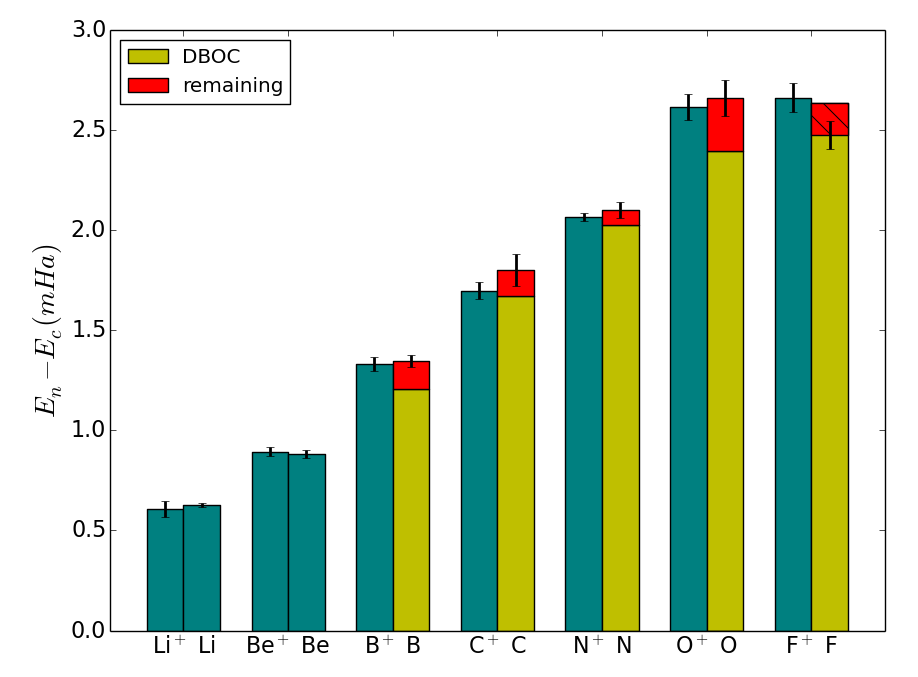
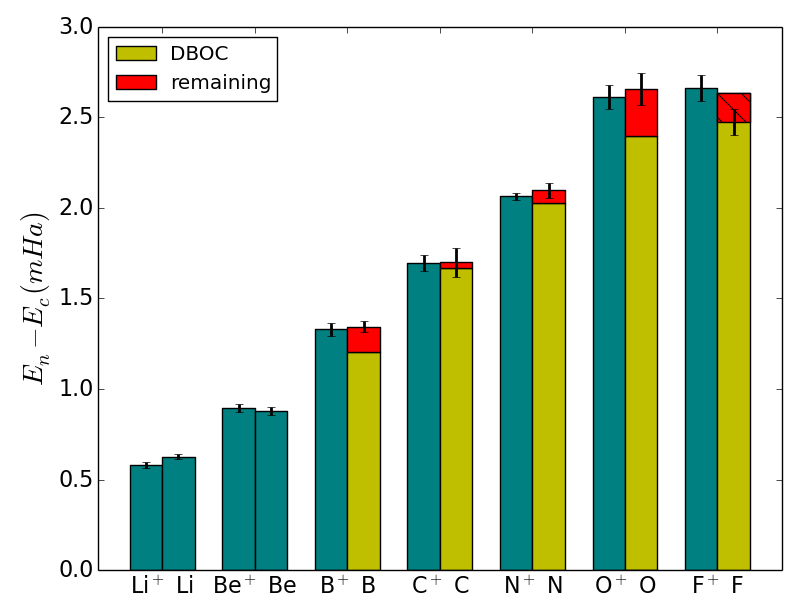
Done for the night

diff --git a/main.tex b/main.tex
@@ -29,7 +29,7 @@ In all but a handful of previous QMC simulations~\cite{Ceperley_1987,Natoli_1993
 
 \subsection{Electronic Wave Function and Optimization}
 
-There are several different approaches for generating high quality electronic wave functions for a FN-DMC calculation~\cite{Umrigar_Alleviation,Toulouse_Bench,Brown_Bench,Seth_Bench}. We use an initial guess for the wave function that is generated from complete active space self-consistent-field (CASSCF) \cite{Chaban_MCSCF,Szabo} calculations using the quantum chemistry package GAMESS \cite{GAMESS}. The optimized orbitals are then used in a configuration interaction singles and doubles (CISD) calculation to generate a series of configuration state functions (CSF)~\cite{Clark_Bench}. For LiH and BeH, a CASSCF calculation with a large active space is used in place of CISD and for Li$^+$ only a single determinant generated from Hartree-Fock is used. The specific choices of active space for the systems studied are listed in Table \ref{tab:CAS}. The multi-CSF expansion of the wave function can be expressed in the following form,
+There are several different approaches for generating high quality electronic wave functions for a FN-DMC calculation~\cite{Umrigar_Alleviation,Toulouse_Bench,Brown_Bench,Seth_Bench}. We use an initial guess for the wave function that is generated from complete active space self-consistent-field (CASSCF) \cite{Chaban_MCSCF,Szabo} calculations using the quantum chemistry package GAMESS \cite{GAMESS}. The optimized orbitals are then used in a configuration interaction singles and doubles (CISD) calculation to generate a series of configuration state functions (CSF)~\cite{Clark_Bench}. For the small systems Li$^+$, Be$^+$, LiH and BeH, a CASSCF calculation with a large active space is used in place of CISD. The specific choices of active space for the systems studied are listed in Table \ref{tab:CAS}. The multi-CSF expansion of the wave function can be expressed in the following form,
 \begin{align}
 \Psi_{\text{CISD}}(\vec{r};\vec{R}_o)=\sum\limits_{i=1}^{N_{\text{CSF}}}\alpha_i\phi_i(\vec{r};\vec{R}_o), \label{eq:psi_gms}
 \end{align}
@@ -44,8 +44,8 @@ We optimize the CSF and Jastrow coefficients $\vec{\alpha},\vec{\beta}$ simultan
 \begin{table}[h]
 \caption{Quantum chemistry parameters: CAS(m,n) indicates we distribute m electrons in to n active orbitals in the CASSCF calculation. All remaining molecular orbitals are used in the CISD procedure. For the larger systems, one core orbital is frozen in the CISD calculation.\label{tab:CAS}}
 \begin{tabular}{lc|cc} \hline\hline
-$\text{Li}^+$ & Hartree-Fock & Li & CAS3.23-CISDT(FCI) \\ 
-$\text{Be}^+$ & CAS3.18-CISD & Be & CAS4.20-CISD \\ 
+$\text{Li}^+$ & CAS2.5 & Li & CAS3.23-CISDT(FCI) \\ 
+$\text{Be}^+$ & CAS3.18 & Be & CAS4.20-CISD \\ 
 $\text{B}^+$ & CAS4.40-CISD & B & CAS5.40-CISD \\
 $\text{C}^+$ & CAS5.16-CISD & C & CAS6.16-CISD \\
 $\text{N}^+$ & CAS6.20-CISD & N & CAS7.20-CISD \\
@@ -135,16 +135,7 @@ where $\mu=\frac{M}{M+1}$ is the reduced mass of the hydrogen-like atom and $M$,
 \subsection{Hydrides}
 
 \input{Table/diatomics}
-
-In Table \ref{tab:atomization}, we present our results on a series of molecular systems (hydrides). Finding accurate reference data for these systems to 0.1 mHa is not straightfoward, and to begin we use highly converged ECG data when available. Only one ECG calculation is performed in the clamped-nuclei limit for LiH. For the rest of the systems, we combined the best clamped-ion atomic references in Table \ref{tab:ionization} and thermochemistry estimates of $D_e$ in Table \ref{tab:atomization} to produce the reference ground-state energies. For BeH and BH, our energies are also lower than the best available quantum chemistry results of -15.247846 Ha~\cite{Koput_BeH} and -25.287650 Ha~\cite{Miliordos_BH}. For the rest of the systems it is possible we have the lowest variational estimates for a majority of the systems, and for all the non-adiabatic we have the best result for BH, and the only results for CH, OH, and HF. A comparison of our results with the references suggests that only the results for LiH and BeH are accurate to 0.1 mHa%, however, the energy differences we calculate should still be highly suggestive given the cancellation of error. %Our results consistently agree within 1 mHa of reference except for OH and HF where the errors are 2.5(2) mHa and 4.8(3) mHa respectively. Within quantum Monte Carlo, it is generally more difficult to obtain an accurate nodal surface for a molecule than for an atom. Considering the atomic ground-state of O and F are only 2 mHa away from the reference whereas C is 5 mHa from the reference, it is actually more surprising that CH agrees within 1 mHa of reference.
-
-Non-adiabatic ECG calculations only exist for the three smallest hydrides. Our results for LiH and BeH agree with the ECG references to within 0.4 mHa as shown in Figure \ref{fig:dia-ECG}. The ECG reference for LiH is converged to the true ground-state energy beyond 0.1 mHa and that our wave function has error of abour 0.2 mHa. For BeH, our result is within 0.1 mHa of the ECG reference and agree within error bars. With BH being one of the largest ECG simulations performed, the DMC result is actually lower in energy, in this case by 1 mHa. The experimental error bars on BH are large, and it is not evident how close our results are to the ground state, although extrapolating the ECG results with basis set size suggest we are within 1 mHa of the true ground state.~\cite{Bubin_BeH_noBO}
-
-To estimate the non-adiabatic contribution to the ground-state energy, we need to calculate the difference between a non-adiabatic and an adiabatic reference. To produce adiabatic references we add the zero-point energies estimated by Feller et. al.~\cite{Feller_Corrections} to our clamped-nuclei energies. The results are shown in Figure \ref{fig:dia-nad-ad}. There are a few sources of error for these estimates. Firstly, there is likely more fixed-node error present in the electronic wave function for the hydrides than for the atoms. The drag-node approximation is also likely to introduce more error for the hydrides as the nodes change based on the inter-nuclear distance. Further to estimate the non-adiabatic contribution we currently use the zero-point energy from Feller et. al.~\cite{Feller_Corrections} as a correction and it is unclear how much error is present in these estimates. Our results in Figure \ref{fig:dia-nad-ad} seem to indicate that BH and CH have non-adiabatic energy contributions beyond the DBOC correction.  In particular for CH less than half of the non-adiabatic contribution is accounted for by the DBOC correction.  It is likely that the fixed-node error is responsible for some of this non-adiabatic energy, although just how much is difficult to determine.   The experimental results do not help significantly in estimating our errors.  For BH, the experimental error bars are too large, while for CH, the experiment errors suggest that a good part of our non-adiabatic energy is due to fixed-node error.
-
-% It is possible that most of the non-adiabatic energy is actually due to the fixed-node approximation, but given our results for the C atom, and clamped nuclei CH, it seems unlikely that our errors are greater than 2 mHa.  %Wether this non-adiabaticity will manifest itself in other observable besides the total energy is beyond the scope of this study.
-
-%The amount of non-adiabatic contribution for the hydrides investigated all fall in the range of a few mHa and seem to peak for CH and HF. However, it is likely that the actual amount of non-adiabatic energies are smaller than what is being shown in Figure \ref{fig:dia-nad-ad}, as the predicted atomization energies for CH and HF agree less well with experiments than their adiabatic counterparts. 
+In Table \ref{tab:atomization}, we present our results on a series of molecular systems (hydrides). Finding accurate reference data for these systems to 0.1 mHa is not straightfoward, and to begin we use highly converged ECG data when available. Only one ECG calculation is performed in the clamped-nuclei limit for LiH with which we agree within 0.3 mHa. For the rest of the systems, we combined the best clamped-ion atomic references in Table \ref{tab:ionization} and thermochemistry estimates of atomization energy $D_e$ in Table \ref{tab:atomization} to produce the reference ground-state energies. For BeH and BH, we are within 1 mHa of reference and our energies are lower than the best available quantum chemistry results of -15.247846 Ha~\cite{Koput_BeH} and -25.287650 Ha~\cite{Miliordos_BH}. For the rest of the systems it is possible we have the lowest variational estimates, but a comparison with reference suggests that we have fixed-node error in the range of a few mHa.
 
 \begin{figure}[h]
 \centering
@@ -152,31 +143,41 @@ To estimate the non-adiabatic contribution to the ground-state energy, we need t
 \caption{Non-adiabatic FN-DMC ground-state energies of LiH, BeH and BH relative to ECG references. The error bars for the non-adiabatic ECG references are shown as thick dark lines and the error bars for the FN-DMC calculations are comparible to the size of the markers. \label{fig:dia-ECG}}
 \end{figure}
 
+Non-adiabatic ECG calculations only exist for the three smallest hydrides. Our results for LiH and BeH agree with the ECG references to within 0.3 mHa as shown in Figure \ref{fig:dia-ECG}. The ECG reference for LiH is converged to the true ground-state energy beyond 0.1 mHa, thus it is likely that our wave function has fixed-node error of about 0.3 mHa. For BeH, our result is within 0.1 mHa of the ECG reference and agree within error bars. With BH being one of the largest ECG simulations performed, the DMC result is actually lower in energy, in this case by 1 mHa. The experimental error bars on BH are large, and it is not evident how close our results are to the true ground-state, although extrapolating the ECG results with basis set size suggest we are within 1 mHa.~\cite{Bubin_BeH_noBO} For these non-adiabatic systems, we have the lowest variational result for BH, and the only results for CH, OH, and HF.
+
+The atomization energy of the diatomic systems are reported in Table \ref{tab:atomization}. High quality thermochemistry benchmarks are used for comparison~\cite{Feller_Corrections}. We take the reference energies from the last column of Table VI of Ref.~\cite{Feller_Corrections} and subtract the corrections in the $\Delta E_{SR}$ (scalar relativistic) and SO (spin-orbit coupling) columns for comparison with our non-adiabatic energies. For the comparison with our clamped-nuclei results, we further subtract the DBOC (diagonal Born-Oppenheimer correction) and ZPE (zero-point energy) corrections. Corrections from spin-orbit coupling and relativistic effects are not used, as they are not included in our Hamiltonian. The atomization energy estimated in the clamped-nuclei limit agrees within 1 mHa of reference for all but the largest molecule HF. This high level of agreement is due in part to the cancellation of fixed-node error in the atom and its corresponding hydride. Within quantum Monte Carlo, it is generally more difficult to obtain an accurate nodal surface for a molecule than for an atom. As a result, our estimates for the clamped-nuclei atomization energies are lower than the references in all cases. A similar trend can be observed as we compare our non-adiabatic results with reference. For each molecule, the deviation from reference is similar in the clamped-nuclei and non-adiabatic cases except for CH.
+
+\begin{figure}[h]
+\centering
+\includegraphics[scale=.4]{Figures/atomization}
+\caption{Atomization energies of first row hydrides obtained with FN-DMC relative to experimental data. The adiabatic results are estimated by adding zero-point energies from \cite{Feller_Corrections} to the clamped-nuclei results. \label{fig:atomization}}
+\end{figure}
+
+In Figure \ref{fig:atomization}, we compare both our clamped-nuclei and non-adiabatic results to experimental data. We also provide adiabatic estimates by adding the zero-point energies estimated with coupled-cluster techniques in Ref.~\cite{Feller_Corrections} to our clamped-nuclei results as exact corrections. To estimate experimental atomization energies starting from the clamped-nuclei results, one needs to include energetic corrections due to zero-point motion of the nuclei, non-adiabatic effects, spin-orbit coupling and relativistic effects. For these highly adiabatic systems, the inclusion of zero-point motion is sufficient to bring our clamped-nuclei results to within 2 mHa of the reference. Except for the case of CH, the non-adiabatic results agree closely with their adiabatic counterparts and are closer to experiment, although for BH the experimental error bar is too large to conclusively verify our claim. For CH, the experimental result suggests that our electron-ion wave function for this molecule has an unusually large fixed-node error.
+
+To estimate the non-adiabatic contribution to the ground-state energies for these hydrides, we calculate the difference between our non-adiabatic and adiabatic results as shown in Figure \ref{fig:dia-nad-ad}. Similar to the atomic case, we break down the non-adiabatic energy of our system into a DBOC contribution and everything beyond the DBOC whenever data is available. The total amount of non-adiabatic contribution seems to grow with the total amount of nuclear charge and peaks for CH. For BeH, OH and HF, the non-adiabatic contribution is almost entirely accounted for by DBOC with the remaining correction being zero within error bars. For BH and CH, the amount of non-adiabatic contribution seems to be significant. However, the accurate estimation of these contributions rely on the cancellation of the fixed-node error present in the electronic and electron-ion wave functions. For instance, if the electron-ion wave function is significantly lower in quality than the electronic wave function for a given system, then the estimated amount of non-adiabatic contribution will be larger than it should be. We also use the zero-point energies from Feller et. al.~\cite{Feller_Corrections} as corrections and it is unclear how much error is present in these estimates.
+
+%There are a few sources of error for these estimates. Firstly, there is likely more fixed-node error present in the electronic wave function for the hydrides than for the atoms. The drag-node approximation is also likely to introduce more error for the hydrides as the nodes change based on the inter-nuclear distance. Further to estimate the non-adiabatic contribution we currently use the zero-point energy from Feller et. al.~\cite{Feller_Corrections} as a correction and it is unclear how much error is present in these estimates. Our results in Figure \ref{fig:dia-nad-ad} seem to indicate that BH and CH have non-adiabatic energy contributions beyond the DBOC correction.  In particular for CH less than half of the non-adiabatic contribution is accounted for by the DBOC correction. It is likely that the fixed-node error is responsible for some of this non-adiabatic energy, although just how much is difficult to determine. The experimental results do not help significantly in estimating our errors.  
+
+% It is possible that most of the non-adiabatic energy is actually due to the fixed-node approximation, but given our results for the C atom, and clamped nuclei CH, it seems unlikely that our errors are greater than 2 mHa.  %Wether this non-adiabaticity will manifest itself in other observable besides the total energy is beyond the scope of this study.
+
+%The amount of non-adiabatic contribution for the hydrides investigated all fall in the range of a few mHa and seem to peak for CH and HF. However, it is likely that the actual amount of non-adiabatic energies are smaller than what is being shown in Figure \ref{fig:dia-nad-ad}, as the predicted atomization energies for CH and HF agree less well with experiments than their adiabatic counterparts. 
+
+
+
+(\textbf{this paragraph doesn't fit the story}) For the LiH molecule we are also interested in calculating the electron affinity for comparison to ECG results. We calculated the ground state energy of LiH$^-$ to be $-8.08220(2)$~Ha for the case of clamped nuclei. With non-adiabatic effects included our result is  $-8.07811(3)$~Ha. Our non-adiabatic result is in good agreement with a previous ECG study \cite{Bubin_LiH_noBO}, which reported a value of $-8.07856887$~Ha. We report an electron affinity of $0.01191(4)$~Ha, which can be compared to the ECG prediction of $0.012132(2)$~Ha and agrees with experiment, $0.0126(4)$~Ha. \footnote{We note that LiH ground state energies which we compare against are mislabeled in Ref.\cite{Bubin_LiH_noBO}, with $\text{LiH}^-$ and LiD being switched.}
+
+%Our biggest errors appear to occur for BeH and CH. For the case of BeH we agree with accuracy higher than 1 mHa with both the ECG results~\cite{Bubin_BeH_noBO} and semi-empirical benchmark~\cite{Feller_Corrections,Davidson_Atoms}. In particular, the ECG results are converged to more digits than the experimental error bar, and it is likely the experimental reference has errors on the order of 5 mHa. For the case of CH, our error is on the order of 3 mHa, which can be due to the dragged-node approximation. 
+
 \begin{figure}[h]
 \includegraphics[scale=.37]{Figures/dia-nad-ad}
 \caption{Non-adiabatic contribution to the ground-state energies in hydrides calculated with FN-DMC. The adiabatic reference energies are calculated by adding zero-point contributions from \cite{Feller_Corrections} to our clamped-nuclei results. A hatched bar indicates the contribution is negative. \label{fig:dia-nad-ad}}
 \end{figure}
 
-(\textbf{this paragraph doesn't fit the story}) For the LiH molecule we are also interested in calculating the electron affinity for comparison to ECG results. We calculated the ground state energy of LiH$^-$ to be $-8.08220(2)$~Ha for the case of clamped nuclei. With non-adiabatic effects included our result is  $-8.07811(3)$~Ha. Our non-adiabatic result is in good agreement with a previous ECG study \cite{Bubin_LiH_noBO}, which reported a value of $-8.07856887$~Ha. We report an electron affinity of $0.01191(4)$~Ha, which can be compared to the ECG prediction of $0.012132(2)$~Ha and agrees with experiment, $0.0126(4)$~Ha. \footnote{We note that LiH ground state energies which we compare against are mislabeled in Ref.\cite{Bubin_LiH_noBO}, with $\text{LiH}^-$ and LiD being switched.}
-
-\begin{figure}[h]
-\centering
-\includegraphics[scale=.4]{Figures/atomization}
-\caption{Atomization energies of first row hydrides obtained with FN-DMC relative to experimental data. The adiabatic results are estimated by adding zero-point energies from \cite{Feller_Corrections} to the clamped nuclei energies. \label{fig:atomization}}
-\end{figure}
-
-The atomization energy of the diatomic systems are reported in Table \ref{tab:atomization} and shown in Figure \ref{fig:atomization}. High quality thermochemistry benchmarks are used for comparison~\cite{Feller_Corrections}. We take the reference energies from the last column of Table VI of Ref.~\cite{Feller_Corrections} and subtract the corrections in the $\Delta E_{SR}$ (scalar relativistic) and SO (spin-orbit coupling) columns for comparison with our non-adiabatic energies. For the comparison with our adiabatic energies, we further subtract the DBOC (diagonal Born-Oppenheimer correction) and ZPE (zero-point energy) corrections. Corrections from spin-orbit coupling and relativistic effects are not used, as they are not included in our Hamiltonian. 
-
-The most prominent feature of Figure \ref{fig:atomization} is that the clamped-nuclei atomization energies are always within 3 mHa of the experimental reference except for BeH.  In considering our results in conjunction with the ECG results and the thermochemistry benchmarking, it seems likely that the experimental reference atomization energy for BeH has error on the order of 5 mHa. 
-% or is post-processed for comparison with results obtained in the clamped-nuclei limit. 
-Our non-adiabatic results consistently agree with their adiabatic counterparts except for CH where the two differ by 3 mHa. The adiabatic result agrees more closely with experiment and it is possible the discrepancy is caused by draged-node error. However, given the consistent high quality of our wave functions, it is unlikely that we will have errors that exceed 1 mHa. If that is the case, it would make CH a very interesting molecule, either non-adiabaticity modifies the zero-point energy significantly or the correction beyond DBOC is on the mHa level.
-
-%Our biggest errors appear to occur for BeH and CH. For the case of BeH we agree with accuracy higher than 1 mHa with both the ECG results~\cite{Bubin_BeH_noBO} and semi-empirical benchmark~\cite{Feller_Corrections,Davidson_Atoms}. In particular, the ECG results are converged to more digits than the experimental error bar, and it is likely the experimental reference has errors on the order of 5 mHa. For the case of CH, our error is on the order of 3 mHa, which can be due to the dragged-node approximation. 
-
 \section{Conclusion}
 We calculated the ground-state energies of first row atoms and their corresponding ions and hydrides to an accuracy of $0.1$ mHa for all but the largest systems with and without the Born-Oppenheimer approximation. We found the ionization energies of the atoms to be relatively independent of the adiabatic approximation, whereas the atomization energies are affected at the sub-mHa level. We provided benchmark data for the amount of non-adiabatic energy contribution for all systems studied. % and note that DBOC likely dominates the non-adiabatic energy in atoms and ions.
 
-These calculations also verified the validity of our wave function ansatz, namely it does indeed produce a high quality electron-ion trial wave function from a good electron wave function. This technique also has the potential to solve interesting larger-scale problems due to its ease of implementation as well as the polynomial scaling in computational time with respect to the number of electrons.  This technique can be generalized quite easily to deal with larger systems.
+These calculations also verified the validity of our wave function ansatz, namely it does indeed produce a high quality electron-ion trial wave function from a good electronic wave function. This technique also has the potential to solve interesting larger-scale problems due to its ease of implementation as well as the polynomial scaling in computational time with respect to the number of electrons.  %This technique can be generalized quite easily to deal with larger systems.
 
 \section{Acknowledgment}
 \input{Section/acknowledgment}

diff --git a/Table/atoms.tex b/Table/atoms.tex
@@ -46,7 +46,7 @@ $E_{\text{ref}}$\tnote{a} &  \text{-}7.478060 & \text{-}14.667356 & \text{-}24.6
 \multicolumn{1}{c}{} &
 \multicolumn{1}{c}{} &
 \multicolumn{1}{c}{} \\
-\textbf{FN-DMC} & \text{-}7.47743(1) & \text{-}14.66643(2) & \text{-}24.65239(3) & \text{-}37.84268(8) & \text{-}54.58641(4) & \text{-}75.06313(9) & \text{-}99.72929(7) \\
+\textbf{FN-DMC} & \text{-}7.47743(1) & \text{-}14.66643(2) & \text{-}24.65239(3) & \text{-}37.84278(8) & \text{-}54.58641(4) & \text{-}75.06313(9) & \text{-}99.72929(7) \\
 ECG \tnote{b} & \text{-}7.477452 & \text{-}14.666435 & \text{-}24.652624 & \text{-}37.841621 & N/A & N/A & N/A \\
 \hline
 
@@ -67,7 +67,7 @@ ECG \tnote{b} & \text{-}7.477452 & \text{-}14.666435 & \text{-}24.652624 & \text
 \multicolumn{1}{c}{} &
 \multicolumn{1}{c}{} &
 \multicolumn{1}{c}{} \\
-FN-DMC & \text{-}7.279919(4) & \text{-}14.324754(9) & \text{-}24.34881(2) & \text{-}37.43071(2) & \text{-}54.05371(2) & \text{-}74.56597(4) & \text{-}99.09109(6) \\
+FN-DMC & \text{-}7.27989(1) & \text{-}14.324754(9) & \text{-}24.34881(2) & \text{-}37.43071(2) & \text{-}54.05371(2) & \text{-}74.56597(4) & \text{-}99.09109(6) \\
 Seth DMC \cite{Seth_Bench} & \text{-}7.279914(3) & \text{-}14.324761(3) & \text{-}24.34887(2) & \text{-}37.43073(4) & \text{-}54.05383(7) & \text{-}74.56662(7) & \text{-}99.0911(2) \\
 $E_{\text{ref}}$\tnote{c} & \text{-}7.279913 & \text{-}14.324763 & \text{-}24.348884 & \text{-}37.430880 & \text{-}54.0546 & \text{-}74.5668 & \text{-}99.0928 \\ 
 \multicolumn{1}{c}{} &
@@ -78,7 +78,7 @@ $E_{\text{ref}}$\tnote{c} & \text{-}7.279913 & \text{-}14.324763 & \text{-}24.34
 \multicolumn{1}{c}{} &
 \multicolumn{1}{c}{} &
 \multicolumn{1}{c}{} \\
-\textbf{FN-DMC} & \text{-}7.27931(4) & \text{-}14.32386(2) & \text{-}24.34748(3) & \text{-}37.42901(4) & \text{-}54.05165(1) & \text{-}74.56336(5) & \text{-}99.08843(5) \\
+\textbf{FN-DMC} & \text{-}7.27931(1) & \text{-}14.32386(2) & \text{-}24.34748(3) & \text{-}37.42899(3) & \text{-}54.05165(1) & \text{-}74.56336(5) & \text{-}99.08843(5) \\
 ECG \tnote{d} & N/A &  \text{-}14.323863 &  \text{-}24.347641 &  \text{-}37.429169 & N/A & N/A & N/A \\
 \hline
 \multicolumn{1}{c}{} & 
@@ -89,7 +89,7 @@ ECG \tnote{d} & N/A &  \text{-}14.323863 &  \text{-}24.347641 &  \text{-}37.4291
 \multicolumn{1}{c}{} &
 \multicolumn{1}{c}{} &
 \multicolumn{1}{c}{} \\
-IP (FN-DMC) & 0.19814(1) & 0.34256(1) & 0.30492(3) & 0.41377(2) & 0.53479(4) & 0.49981(4) & 0.6407(1) \\
+IP (FN-DMC) & 0.19817(1) & 0.34256(1) & 0.30492(3) & 0.41369(9) & 0.53479(4) & 0.49981(4) & 0.6407(1) \\
 \multicolumn{1}{c}{} & 
 \multicolumn{1}{c}{} &
 \multicolumn{1}{c}{} &
@@ -98,7 +98,7 @@ IP (FN-DMC) & 0.19814(1) & 0.34256(1) & 0.30492(3) & 0.41377(2) & 0.53479(4) & 0
 \multicolumn{1}{c}{} &
 \multicolumn{1}{c}{} &
 \multicolumn{1}{c}{} \\
-IP (FN-DMC) & 0.19812(4) & 0.34257(3) & 0.30491(4) & 0.41367(9) & 0.53476(4) & 0.4998(1) & 0.64086(8) \\
+IP (FN-DMC) & 0.19812(1) & 0.34257(3) & 0.30491(4) & 0.41367(9) & 0.53476(4) & 0.4998(1) & 0.64086(8) \\
 IP (Ref.)\tnote{e} & 0.198130 & 0.342572 & 0.304980 & 0.414014 & 0.534775 & 0.500452 & 0.640946 \\
 \hline\hline
 \end{tabular}

diff --git a/Table/diatomics.tex b/Table/diatomics.tex
@@ -31,7 +31,7 @@
 \multicolumn{1}{c}{} &
 \multicolumn{1}{c}{} &
 \multicolumn{1}{c}{} \\
-FN-DMC & \text{-}8.07052(1) & \text{-}15.24793(2) & \text{-}25.28867(2) & \text{-}38.47801(4) & \text{-}75.7357(1) & \text{-}100.4552(1) \\
+FN-DMC & \text{-}8.070518(2) & \text{-}15.24793(2) & \text{-}25.28867(2) & \text{-}38.47801(4) & \text{-}75.7357(1) & \text{-}100.4552(1) \\
 $E_{\text{ref}}$ \tnote{a} & \text{-}8.0705473 & \text{-}15.2483(4) & \text{-}25.2893(2) & \text{-}38.4792(2) & \text{-}75.7382(2) & \text{-}100.4600(3) \\
 \multicolumn{1}{c}{} & 
 \multicolumn{1}{c}{} &
@@ -40,7 +40,7 @@ $E_{\text{ref}}$ \tnote{a} & \text{-}8.0705473 & \text{-}15.2483(4) & \text{-}25
 \multicolumn{1}{c}{} &
 \multicolumn{1}{c}{} &
 \multicolumn{1}{c}{} \\
-\textbf{FN-DMC} & \text{-}8.06624(4) & \text{-}15.24194(4) & \text{-}25.28102(2) & \text{-}38.46721(3) & \text{-}75.72453(9) & \text{-}100.44315(7) \\
+\textbf{FN-DMC} & \text{-}8.06624(2) & \text{-}15.24194(4) & \text{-}25.28102(2) & \text{-}38.46721(3) & \text{-}75.72453(9) & \text{-}100.44315(7) \\
 ECG \cite{Bubin_LiH_noBO,Bubin_BeH_noBO,Bubin_BH_noBO} & \text{-}8.0664371(15) & \text{-}15.24203(10) & \text{-}25.2803(10) & N/A & N/A & N/A \\
 \hline
 
@@ -62,11 +62,11 @@ $D_e$ Feller \tnote{b} & 0.09262(5) & 0.0809(4) & 0.1354(2) & 0.1342(2) & 0.1709
 \multicolumn{1}{c}{} \\
 $D_o$ (this work) & 0.08908(4)  & 0.07578(4)  & 0.12890(4) & 0.12480(9) & 0.1617(1) & 0.2141(1) \\
 $D_o$ Feller \tnote{c} & 0.08940(5) & 0.0761(4) & 0.1299(2) & 0.1276(2) & 0.1622(2) & 0.2166(3)\\
-$D_o$ Exp. \cite{CCCBDB,HH} & 0.08874(38) & 0.07475(4)\tnote{d} & 0.1281(37) & 0.1275(5) & 0.1622(1) & 0.2158(3) \\
+$D_o$ Exp. \cite{CCCBDB,HH} & 0.08874(38) & 0.07475(4) & 0.1281(37)\tnote{d} & 0.1275(5) & 0.1622(1) & 0.2158(3) \\
 \hline\hline
 \end{tabular}
 \begin{tablenotes}
-\item[a] For LiH, ECG provides the best reference energy~\cite{Adamowicz_LiH}. For the rest of the systems, we combined the best clamped-ion atomic references in Table \ref{tab:ionization} and thermochemistry estimates of $D_e$ in this table~\cite{Feller_Corrections} to produce the reference ground-state energies.
+\item[a] For LiH, ECG provides the best reference energy~\cite{Adamowicz_LiH}. For the rest of the systems, we combined the best clamped-ion atomic references in Table \ref{tab:ionization} and thermochemistry estimates of $D_e$ in this table to produce the reference ground-state energies.
 \item[b] Best estimates for $D_e$ are calculated by subtracting the scalar relativistic, spin-orbit coupling and zero-point energy corrections from the reference $D_o$ in Table VI of Ref.~\cite{Feller_Corrections}.
 \item[c] Here only the scalar relativistic and spin-orbit coupling corrections are subtracted.
 \item[d] The atomization energy for BeH in Ref.~\cite{CCCBDB} disagrees with previous high level theoretical benchmarks~\cite{Feller_Corrections,Bubin_BeH_noBO}, thus we use Ref.~\cite{HH} instead.
